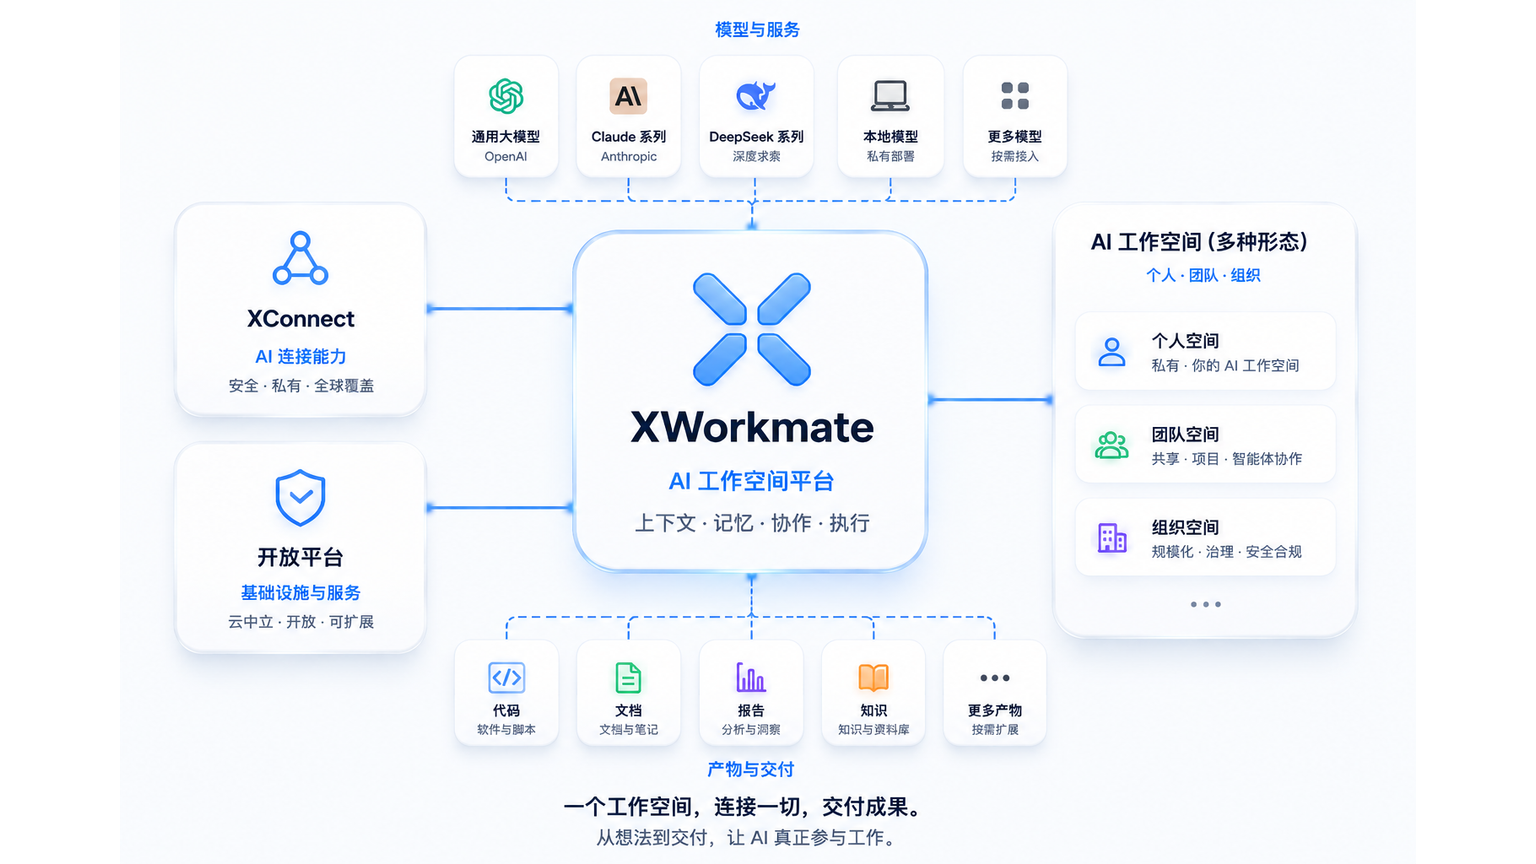
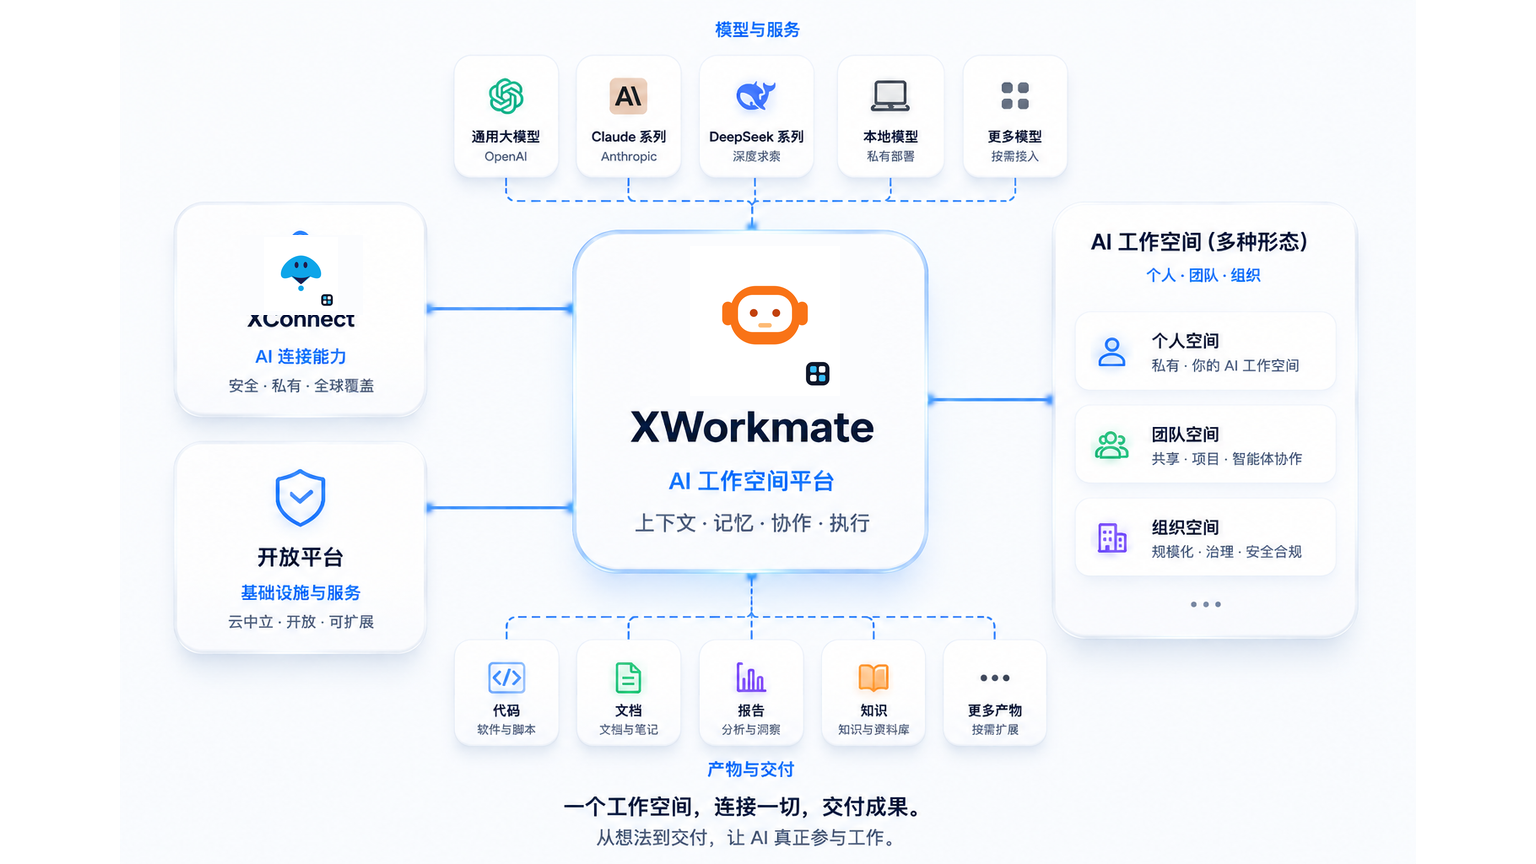
feat(branding): 替换并微调产品页面品牌标志 (Swift-Ray, Worky-Bot, Cubo-Dock) (#474)

Changed region(s): [[0.4375, 0.3125, 0.5625, 0.4688], [0.1562, 0.2812, 0.2188, 0.3438]]

diff --git a/src/components/products/ProductOverview.tsx b/src/components/products/ProductOverview.tsx
@@ -1,6 +1,7 @@
 "use client";
 
-import { ArrowRight, Bot, Cloud, Network, Layers } from "lucide-react";
+import Image from "next/image";
+import { ArrowRight, Layers } from "lucide-react";
 import BoundaryLink from "@/components/common/BoundaryLink";
 import MarketingNav from "@/components/marketing/MarketingNav";
 import XdsSiteFooter from "@/components/xds/XdsSiteFooter";
@@ -9,7 +10,11 @@ import { publicDiscovery } from "@/data/content/public-discovery";
 import styles from "./ProductCatalog.module.css";
 
 const PRODUCT_ORDER = ["xworkmate", "xconnect", "ai-workspace"];
-const PRODUCT_ICONS = [Bot, Network, Cloud];
+const PRODUCT_MARKS: Record<string, string> = {
+  xworkmate: "/marketing/xworkmate/brand-mark.png",
+  xconnect: "/marketing/xconnect/brand-mark.png",
+  "ai-workspace": "/marketing/ai-workspace/brand-mark.png",
+};
 
 export function ProductCards({ locale }: { locale: "zh" | "en" }) {
   return (
@@ -18,12 +23,17 @@ export function ProductCards({ locale }: { locale: "zh" | "en" }) {
         const product = publicDiscovery.products.find(
           (item) => item.slug === slug,
         )!;
-        const Icon = PRODUCT_ICONS[index];
         return (
           <article key={slug} className={styles.card}>
             <div className={styles.cardTop}>
               <span className={styles.icon}>
-                <Icon size={24} aria-hidden="true" />
+                <Image
+                  src={PRODUCT_MARKS[slug]}
+                  alt=""
+                  width={36}
+                  height={36}
+                  style={{ objectFit: "contain" }}
+                />
               </span>
               <span className={styles.number}>0{index + 1}</span>
             </div>
